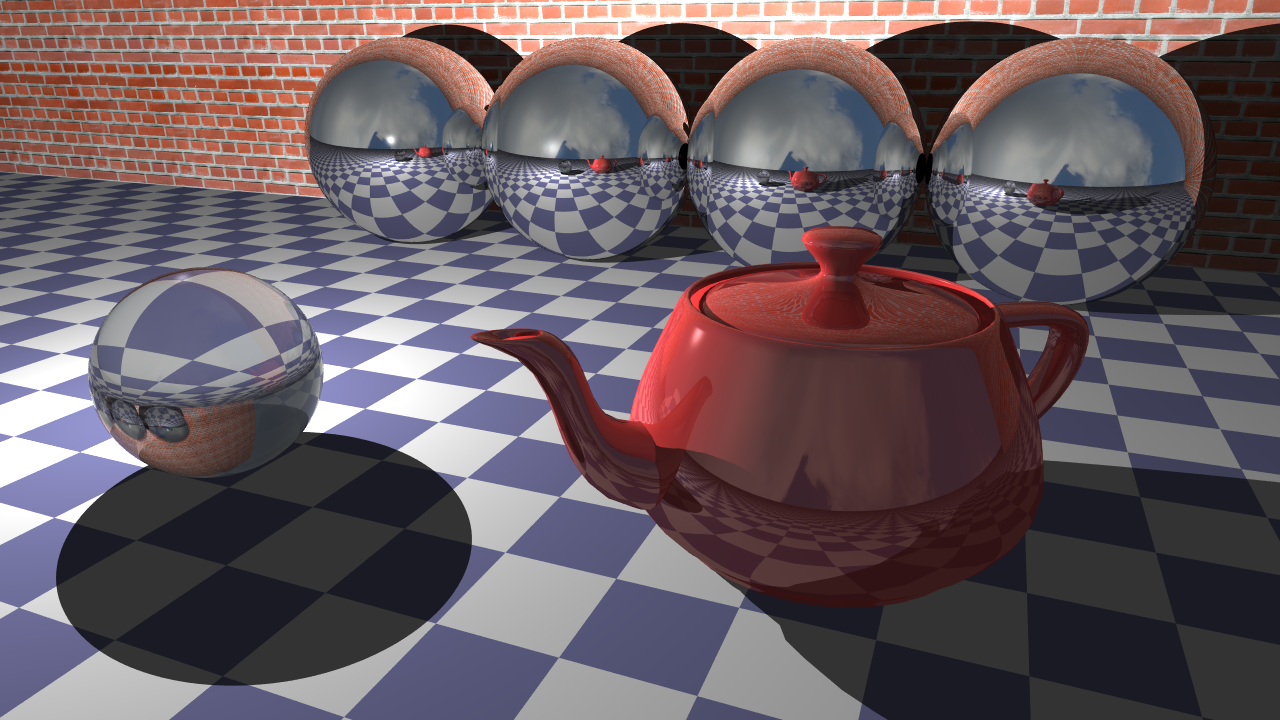
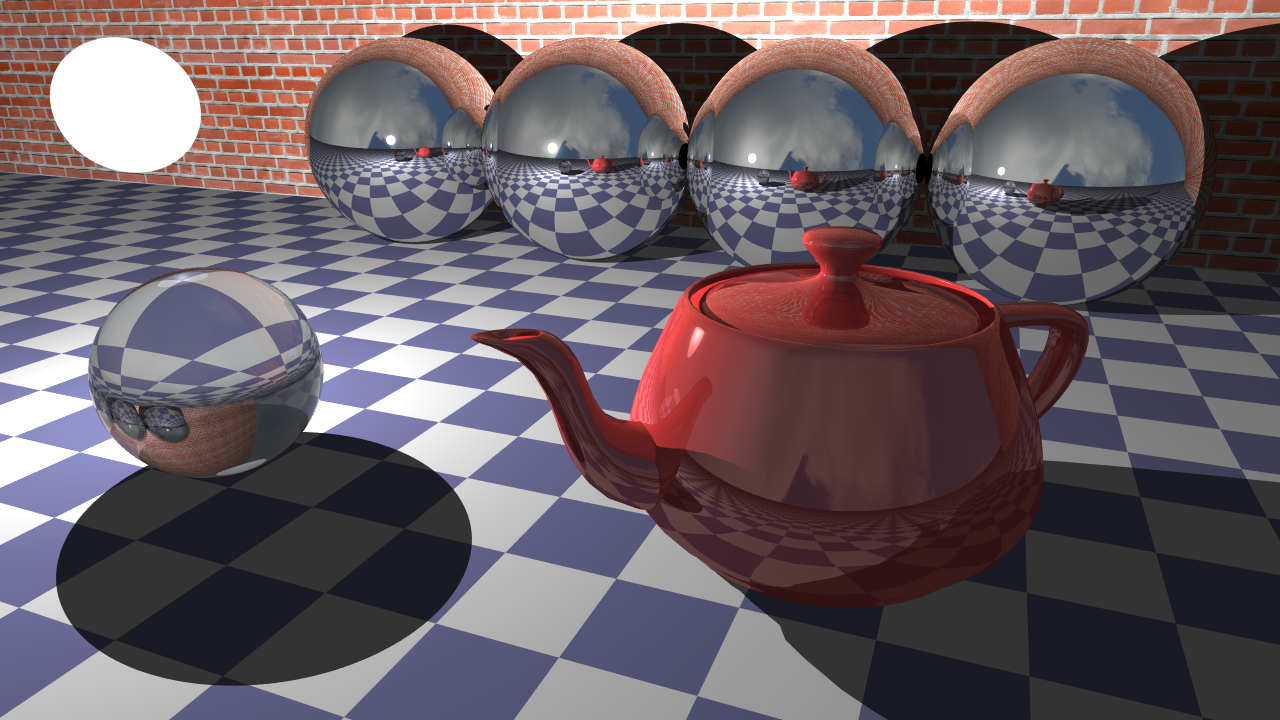
Got light rendering

diff --git a/src/lights.h b/src/lights.h
@@ -59,14 +59,112 @@ protected:
 class PointLight : public GenLight
 {
 public:
-	Color Illuminate( ShadeInfo const &sInfo, Vec3f &dir ) const override { Vec3f d=position-sInfo.P(); dir=d.GetNormalized(); return intensity*sInfo.TraceShadowRay(d,1); };
+
+	Color Illuminate( ShadeInfo const &sInfo, Vec3f &dir ) const override 
+    { 
+        Vec3f d=position-sInfo.P();
+        dir=d.GetNormalized();
+        return intensity*sInfo.TraceShadowRay(d,1); 
+    }
+
 	Color Radiance  ( ShadeInfo const &sInfo ) const override { return intensity; }
 	bool IsRenderable() const override { return size > 0.0f; }
 	void SetViewportLight( int lightID ) const override { SetViewportParam(lightID,ColorA(0.0f),ColorA(intensity),Vec4f(position,1.0f)); }
 	void Load( Loader const &loader ) override;
 
-	bool IntersectRay( Ray const &ray, HitInfo &hInfo, int hitSide=HIT_FRONT ) const override { return false; }
-    bool IntersectShadowRay( Ray const &localRay, float t_max ) const override { return false; }
+	bool IntersectRay( Ray const &ray, HitInfo &hInfo, int hitSide=HIT_FRONT ) const override 
+    {
+        const Ray localRay{ (ray.p - position) / size, ray.dir / size };
+        const float a{ localRay.dir.Dot(localRay.dir) };
+        const float b{ 2 * localRay.dir.Dot(localRay.p) };
+        const float c{ localRay.p.Dot(localRay.p) - 1.0f };
+
+        const float discriminant{ b*b - 4*a*c };
+        if (discriminant < 0.0f) return hitSide == HIT_NONE;
+
+        const float discriminantSquareRoot{ sqrtf(discriminant) };
+        const float inverse2A{ 1.0f / (2.0f * a) };
+        const float t1{ (-b - discriminantSquareRoot) * inverse2A };
+
+        if (hitSide == HIT_FRONT)
+        {
+            if (t1 <= 0.0f)
+                return false;
+
+            hInfo.z = t1;
+            hInfo.p = localRay.p + localRay.dir * t1;
+            hInfo.N = hInfo.p;
+            hInfo.front = true;
+            hInfo.light = true;
+
+            return true;
+
+        }
+
+        const float t2{ (-b + discriminantSquareRoot) * inverse2A };
+        if (hitSide == HIT_BACK)
+        {
+            if (t1 > 0.0f || t2 < 0.0f)
+                return false;
+
+            hInfo.z = t2;
+            hInfo.p = localRay.p + localRay.dir * t2;
+            hInfo.N = hInfo.p;
+            hInfo.front = false;
+            hInfo.light = true;
+
+            return true;
+        }
+
+
+        if (hitSide == HIT_FRONT_AND_BACK)
+        {
+            if (t1 < 0.0f && t2 < 0.0f)
+                return false;
+
+            if (t1 > 0.0f)
+            {
+                hInfo.z = t1;
+                hInfo.p = localRay.p + localRay.dir * t1;
+                hInfo.N = hInfo.p;
+
+                hInfo.front = true;
+            }
+            else
+            {
+                hInfo.z = t2;
+                hInfo.p = localRay.p + localRay.dir * t2;
+                hInfo.N = hInfo.p;
+
+                hInfo.front = false;
+            }
+
+            hInfo.light = true;
+            return true;
+        }
+
+        return false;
+    }
+
+    bool IntersectShadowRay( Ray const &ray, float t_max ) const override 
+    {
+        const float a{ ray.dir.Dot(ray.dir) };
+        const float b{ 2 * ray.dir.Dot(ray.p) };
+        const float c{ ray.p.Dot(ray.p) - 1.0f };
+
+        const float discriminant{ b*b - 4*a*c };
+        if (discriminant < 0.0f) return false;
+
+        const float discriminantSquareRoot{ sqrtf(discriminant) };
+        const float inverse2A{ 1.0f / (2.0f * a) };
+
+        const float t1{ (-b - discriminantSquareRoot) * inverse2A };
+        const float t2{ (-b + discriminantSquareRoot) * inverse2A };
+
+        if (t1 >= 0.0f) return t1 < t_max;
+        return t2 >= 0.0f && t2 < t_max;
+    }
+
 	Box  GetBoundBox() const override { return Box( position-size, position+size ); }	// empty box
 	void ViewportDisplay( Material const *mtl ) const override;	// used for OpenGL display
 
